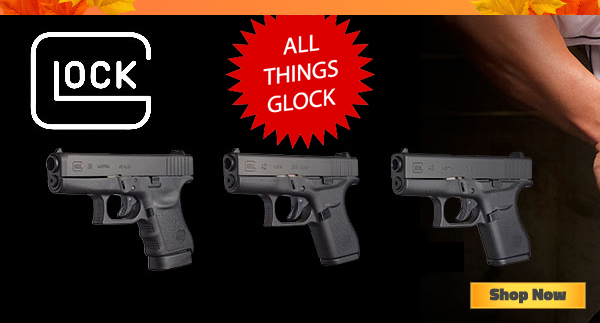
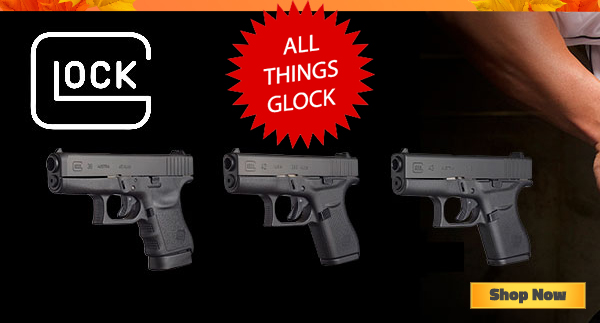
fixed header

Changed region(s): [[0.0, 0.0, 1.0, 0.0619]]

diff --git a/glocktober.html b/glocktober.html
@@ -137,7 +137,7 @@ Hunting Season Is Here - Get Ready Today: CMC Government Supply - Where the Prof
                     <th valign="top">
                         <table bgcolor="#ffffff" cellpadding="0" cellspacing="0" class="responsive" width="600">
                                 <tr>
-                                      <th valign="top"><a href=" http://www.cmcgov.com/VERTX/?utm_source=thursdayblast&utm_medium=email&utm_campaign=9-15-2016_vertx"><img border="0" src="http://1.cmcgov.com/vertx/SEPT15-vertx-featured-image-SEPT15.jpg" width="600" height="auto" class="responsive-image" style="display: block;" /></a></th>
+                                      <th valign="top"><a href=" http://www.cmcgov.com/VERTX/?utm_source=thursdayblast&utm_medium=email&utm_campaign=9-15-2016_vertx"><img border="0" src="http://1.cmcgov.com/fall/images/glock-header.jpg" width="600" height="auto" class="responsive-image" style="display: block;" /></a></th>
                                 </tr>
                                 <tr>
                                     <th valign="top">
